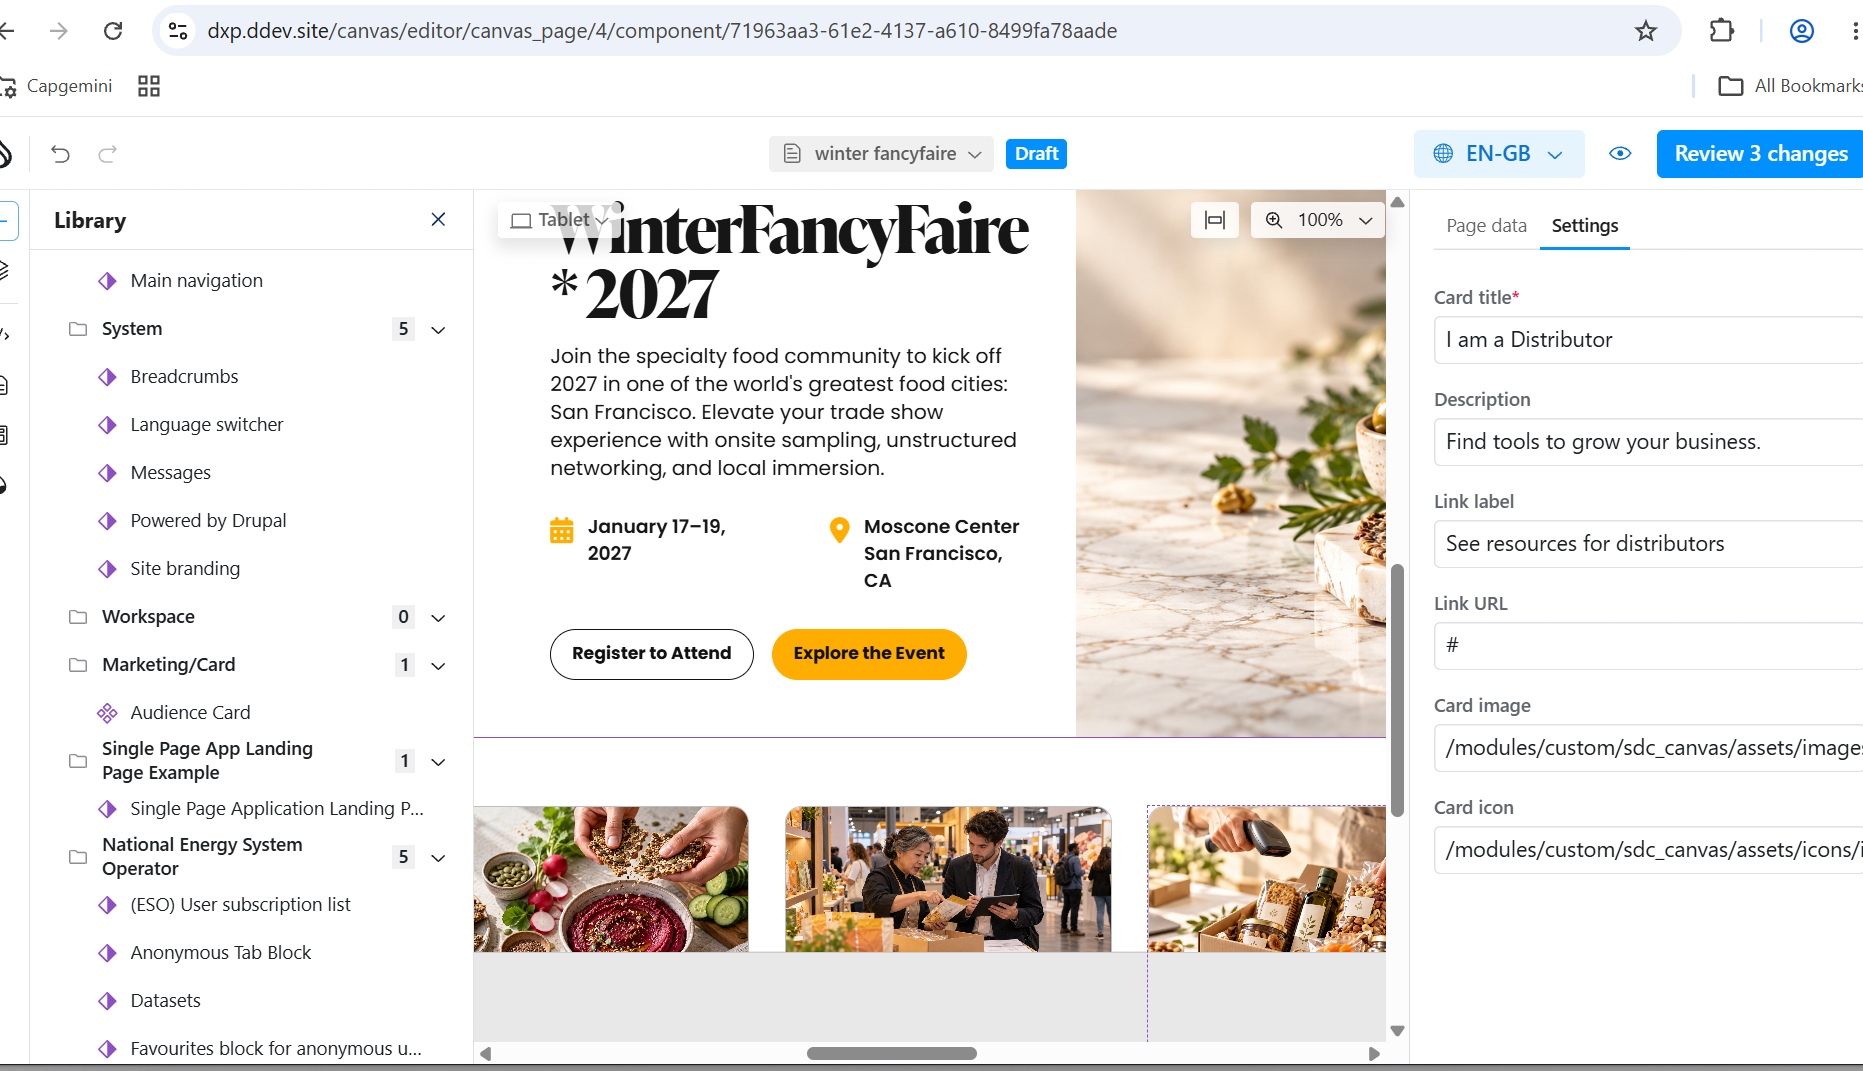
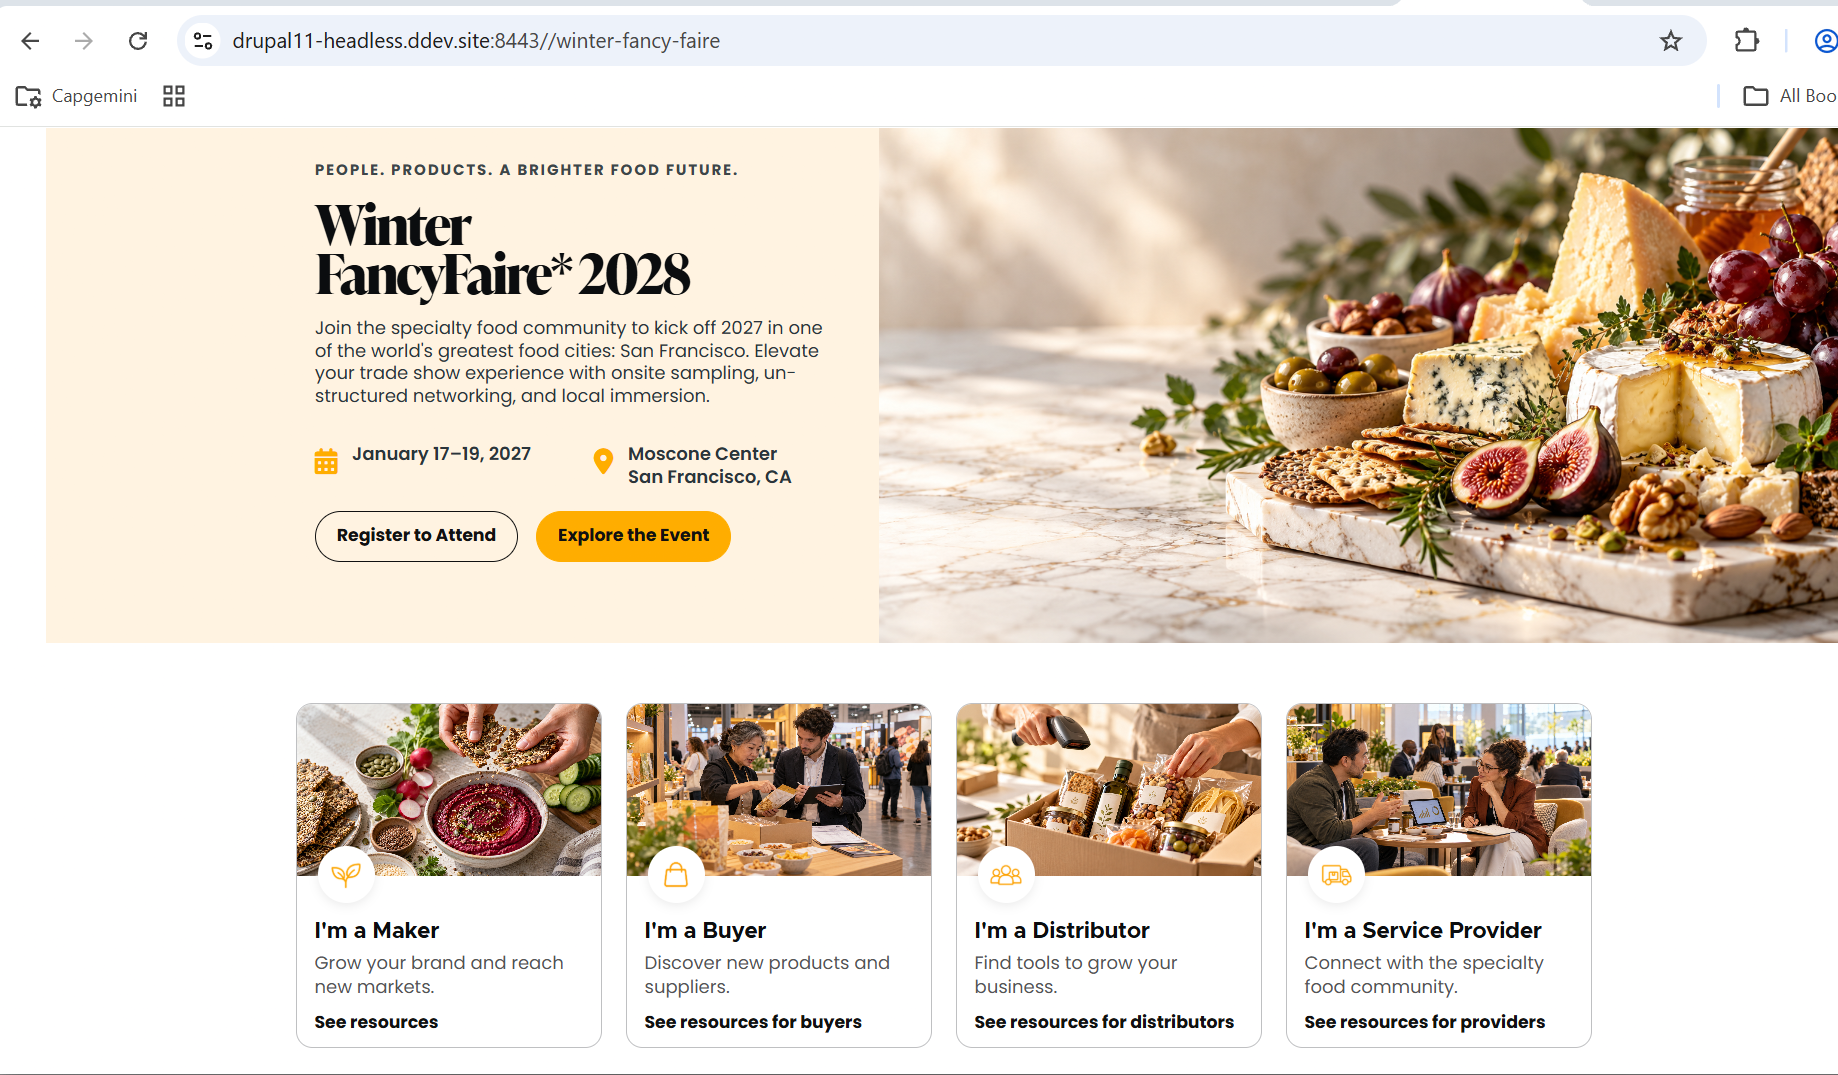
update event hero to use media image

diff --git a/components/event-hero/event-hero.css b/components/event-hero/event-hero.css
@@ -3,8 +3,8 @@
 .event-hero {
   display: grid;
   grid-template-columns: 46.4% 53.6%;
-  min-height: 420px;
-  background: #fff;
+  min-height: 375px;
+  background: #fff3e1;
   font-family: var(--sdc-heading);
 }
 
@@ -13,7 +13,7 @@
   min-width: 0;
   flex-direction: column;
   justify-content: flex-start;
-  padding: 63px 32px 38px clamp(48px, 10.7vw, 206px);
+  padding: 56px 32px 34px clamp(48px, 14vw, 206px);
 }
 
 .event-hero__eyebrow {
@@ -30,24 +30,24 @@
   margin: 0;
   max-width: 500px;
   font-family: var(--sdc-display);
-  font-size: clamp(44px, 3.05vw, 58px);
+  font-size: clamp(36px, 2.85vw, 44px);
   font-weight: 700;
   letter-spacing: -1.8px;
-  line-height: 0.98;
+  line-height: 0.9;
 }
 
 .event-hero__description {
-  margin: 14px 0 20px;
+  margin: 14px 0 24px;
   max-width: 430px;
-  font-size: 13.5px;
-  line-height: 1.38;
+  font-size: 12px;
+  line-height: 1.25;
 }
 
 .event-hero__meta {
   display: flex;
   gap: 42px;
   align-items: flex-start;
-  margin: 0 0 22px;
+  margin: 0 0 14px;
 }
 
 .event-hero__meta-item {
@@ -65,9 +65,9 @@
 
 .event-hero__meta-item dd {
   margin: 0;
-  font-size: 12.5px;
+  font-size: 12px;
   font-weight: 600;
-  line-height: 1.45;
+  line-height: 1.25;
 }
 
 .event-hero__actions {
@@ -96,7 +96,7 @@
 }
 
 .event-hero__media {
-  min-height: 420px;
+  min-height: 375px;
   background-position: center 52%;
   background-size: cover;
   background-repeat: no-repeat;

diff --git a/components/audience-card/audience-card.css b/components/audience-card/audience-card.css
@@ -11,7 +11,7 @@
 }
 
 .audience-card__image {
-  height: 125px;
+  height: 115px;
   background-position: center;
   background-size: cover;
   background-repeat: no-repeat;
@@ -19,11 +19,11 @@
 
 .audience-card__icon {
   position: absolute;
-  top: 105px;
-  left: 20px;
+  top: 95px;
+  left: 14px;
   display: grid;
-  width: 40px;
-  height: 40px;
+  width: 38px;
+  height: 38px;
   place-items: center;
   border-radius: 50%;
   background: #fff;
@@ -37,27 +37,28 @@
 }
 
 .audience-card__body {
-  min-height: 131px;
-  padding: 28px 16px 12px;
+  min-height: 114px;
+  padding: 28px 12px 0;
 }
 
 .audience-card__title {
-  margin: 0 0 7px;
-  font-size: 16.5px;
+  margin: 0 0 5px;
+  font-size: 15px;
   line-height: 1.2;
 }
 
 .audience-card__description {
-  min-height: 36px;
-  margin: 0 0 7px;
+  min-height: 33px;
+  margin: 0;
   color: var(--sdc-muted);
-  font-size: 12.5px;
-  line-height: 1.42;
+  font-size: 12px;
+  line-height: 1.35;
 }
 
 .audience-card__link {
   color: #111;
-  font-size: 12px;
+  font-size: 11.5px;
   font-weight: 700;
+  line-height: 1.3;
   text-decoration: none;
 }

diff --git a/components/shared.css b/components/shared.css
@@ -12,3 +12,38 @@
 .sdc-canvas-component * {
   box-sizing: border-box;
 }
+
+body.canvas-page {
+  background: #fff;
+}
+
+body.canvas-page .site-header,
+body.canvas-page .social-bar,
+body.canvas-page .region--breadcrumb,
+body.canvas-page #block-olivero-page-title,
+body.canvas-page [role='contentinfo'] {
+  display: none;
+}
+
+body.canvas-page .layout-main {
+  display: block;
+}
+
+body.canvas-page .main-content,
+body.canvas-page .main-content__container {
+  width: 100%;
+}
+
+body.canvas-page .main-content__container {
+  max-width: none;
+  padding: 4px 34px 0;
+}
+
+body.canvas-page #content {
+  display: block;
+}
+
+body.canvas-page #block-olivero-content {
+  width: 100%;
+  margin: 0;
+}

diff --git a/components/audience-grid/audience-grid.css b/components/audience-grid/audience-grid.css
@@ -3,10 +3,10 @@
 .audience-grid {
   display: grid;
   grid-template-columns: repeat(4, minmax(0, 1fr));
-  gap: 24px;
+  gap: 16px;
   width: calc(100% - 48px);
-  max-width: 970px;
-  margin: 46px auto 58px;
+  max-width: 864px;
+  margin: 40px auto 58px;
   grid-auto-flow: row;
 }
 

diff --git a/README.md b/README.md
@@ -44,7 +44,7 @@ Available props:
 - `primary_action_url`
 - `secondary_action_label`
 - `secondary_action_url`
-- `media_url`
+- `image_url` - image prop; select the hero image from the Media Library
 
 The required `title` prop has a Canvas-compatible first example. Its CSS uses a 46.4/53.6 split desktop layout and stacks below 900px.
 
@@ -89,7 +89,7 @@ The CSS renders 4 desktop columns by default, 2 columns below 900px, and 1 colum
 3. Open `/admin/appearance/component/status` and verify the three SDCs are enabled.
 4. Open Canvas and place Event Hero and Audience Card Grid components.
 5. Add Audience Card components to the grid's `cards` slot.
-6. Configure titles, descriptions, and links in Canvas's component form; choose card images and icons from the Media Library.
+6. Configure titles, descriptions, and links in Canvas's component form; choose hero and card images and card icons from the Media Library.
 
 Canvas 1.13 automatically creates component config entities for eligible SDCs. The three config entity IDs are:
 

diff --git a/component-specs.md b/component-specs.md
@@ -12,9 +12,9 @@
 - `location_label`: venue and city, preserving a line break
 - `primary_action_label` / `primary_action_url`
 - `secondary_action_label` / `secondary_action_url`
-- `media_url`: image asset or Drupal media URL
+- `image_url`: hero image selected from the Media Library
 
-**Composition:** Two-column section on desktop, stacked on narrow screens. Text and media occupy independent regions so the editor can update copy or replace the image without changing layout code.
+**Composition:** Full-width, two-column section on desktop, stacked on narrow screens. On Canvas pages, the Olivero header, page title, breadcrumbs, social bar, and footer are hidden so the composition can use the full content width and match the design reference. Text and media occupy independent regions so the editor can update copy or replace the image without changing layout code.
 
 ## Audience Card
 
